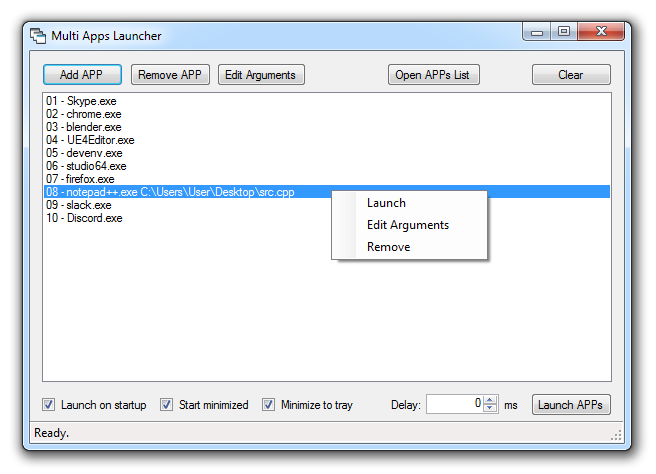
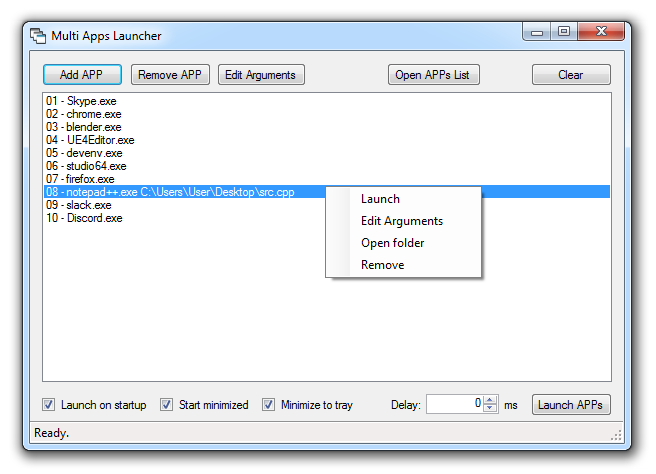
Function added: Open selected application folder.

Changed region(s): [[0.4878, 0.384, 0.7622, 0.5907]]

diff --git a/MultiAppsLauncher/MainForm.cs b/MultiAppsLauncher/MainForm.cs
@@ -17,7 +17,7 @@ namespace MultiAppsLauncher
         /// </summary>
         private string settingsFilePath = Application.StartupPath + "\\" + Process.GetCurrentProcess().ProcessName + ".ini";
 
-        private string defaultFileOpener = "explorer";
+        private string defaultFileOpener = "explorer.exe";
 
         private string launchOnStartupTag = "launchOnStartup";
         private string startMinimizedTag = "startMinimized";
@@ -208,6 +208,7 @@ namespace MultiAppsLauncher
                         contextMenuStrip1.Visible = true;
                         launchToolStripMenuItem.Visible = true;
                         editArgumentsToolStripMenuItem.Visible = true;
+                        openFolderToolStripMenuItem.Visible = true;
                         removeToolStripMenuItem.Visible = true;
                     }
                 }
@@ -216,6 +217,7 @@ namespace MultiAppsLauncher
                     contextMenuStrip1.Visible = false;
                     launchToolStripMenuItem.Visible = false;
                     editArgumentsToolStripMenuItem.Visible = false;
+                    openFolderToolStripMenuItem.Visible = false;
                     removeToolStripMenuItem.Visible = false;
                 }
             }
@@ -268,7 +270,7 @@ namespace MultiAppsLauncher
         }
 
         /// <summary>
-        /// Add aplication(s) with the Drag & Drop event handler.
+        /// Add application(s) with the Drag & Drop event handler.
         /// </summary>
         /// <param name="sender">Object that send the event.</param>
         /// <param name="e">Arguments of the event.</param>
@@ -335,7 +337,7 @@ namespace MultiAppsLauncher
         }
 
         /// <summary>
-        /// Launch aplication with the right mouse button menu event handler.
+        /// Launch application with the right mouse button menu event handler.
         /// </summary>
         /// <param name="sender">Object that send the event.</param>
         /// <param name="e">Arguments of the event.</param>
@@ -347,7 +349,7 @@ namespace MultiAppsLauncher
         }
 
         /// <summary>
-        /// Edit aplication arguments with the right mouse button menu event handler.
+        /// Edit selected application arguments with the right mouse button menu event handler.
         /// </summary>
         /// <param name="sender">Object that send the event.</param>
         /// <param name="e">Arguments of the event.</param>
@@ -358,7 +360,39 @@ namespace MultiAppsLauncher
         }
 
         /// <summary>
-        /// Remove aplication with the right mouse button menu event handler.
+        /// Open selected application folder with the right mouse button menu event handler.
+        /// </summary>
+        /// <param name="sender">Object that send the event.</param>
+        /// <param name="e">Arguments of the event.</param>
+        private void openFolderToolStripMenuItem_Click(object sender, EventArgs e)
+        {
+            int i = listBox_appsList.SelectedIndex;
+
+            if (i < 0 || i >= appsList.Count)
+                return;
+
+            try
+            {
+                if (File.Exists(appsListFilePath))
+                {
+                    Process fileOpener = new Process();
+                    fileOpener.StartInfo.FileName = defaultFileOpener;
+                    fileOpener.StartInfo.Arguments = "/select," + appsList[i].applicationPath;
+                    fileOpener.Start();
+                }
+            }
+            catch (Exception ex)
+            {
+                Debug(ex.Message);
+            }
+            finally
+            {
+
+            }
+        }
+
+        /// <summary>
+        /// Remove selected application with the right mouse button menu event handler.
         /// </summary>
         /// <param name="sender">Object that send the event.</param>
         /// <param name="e">Arguments of the event.</param>

diff --git a/MultiAppsLauncher/MainForm.Designer.cs b/MultiAppsLauncher/MainForm.Designer.cs
@@ -52,6 +52,7 @@ namespace MultiAppsLauncher
             this.checkBox_MinimizeToTray = new System.Windows.Forms.CheckBox();
             this.checkBox_StartMinimized = new System.Windows.Forms.CheckBox();
             this.button_OpenAppsList = new System.Windows.Forms.Button();
+            this.openFolderToolStripMenuItem = new System.Windows.Forms.ToolStripMenuItem();
             this.contextMenuStrip1.SuspendLayout();
             this.statusStrip1.SuspendLayout();
             ((System.ComponentModel.ISupportInitialize)(this.delayNumericUpDown)).BeginInit();
@@ -130,9 +131,10 @@ namespace MultiAppsLauncher
             this.contextMenuStrip1.Items.AddRange(new System.Windows.Forms.ToolStripItem[] {
             this.launchToolStripMenuItem,
             this.editArgumentsToolStripMenuItem,
+            this.openFolderToolStripMenuItem,
             this.removeToolStripMenuItem});
             this.contextMenuStrip1.Name = "contextMenuStrip1";
-            this.contextMenuStrip1.Size = new System.Drawing.Size(157, 70);
+            this.contextMenuStrip1.Size = new System.Drawing.Size(157, 114);
             // 
             // launchToolStripMenuItem
             // 
@@ -147,6 +149,13 @@ namespace MultiAppsLauncher
             this.editArgumentsToolStripMenuItem.Size = new System.Drawing.Size(156, 22);
             this.editArgumentsToolStripMenuItem.Text = "Edit Arguments";
             this.editArgumentsToolStripMenuItem.Click += new System.EventHandler(this.editArgumentsToolStripMenuItem_Click);
+            // 
+            // openFolderToolStripMenuItem
+            // 
+            this.openFolderToolStripMenuItem.Name = "openFolderToolStripMenuItem";
+            this.openFolderToolStripMenuItem.Size = new System.Drawing.Size(156, 22);
+            this.openFolderToolStripMenuItem.Text = "Open folder";
+            this.openFolderToolStripMenuItem.Click += new System.EventHandler(this.openFolderToolStripMenuItem_Click);
             // 
             // removeToolStripMenuItem
             // 
@@ -320,6 +329,7 @@ namespace MultiAppsLauncher
         private CheckBox checkBox_MinimizeToTray;
         private CheckBox checkBox_StartMinimized;
         private Button button_OpenAppsList;
+        private ToolStripMenuItem openFolderToolStripMenuItem;
     }
 }
 
